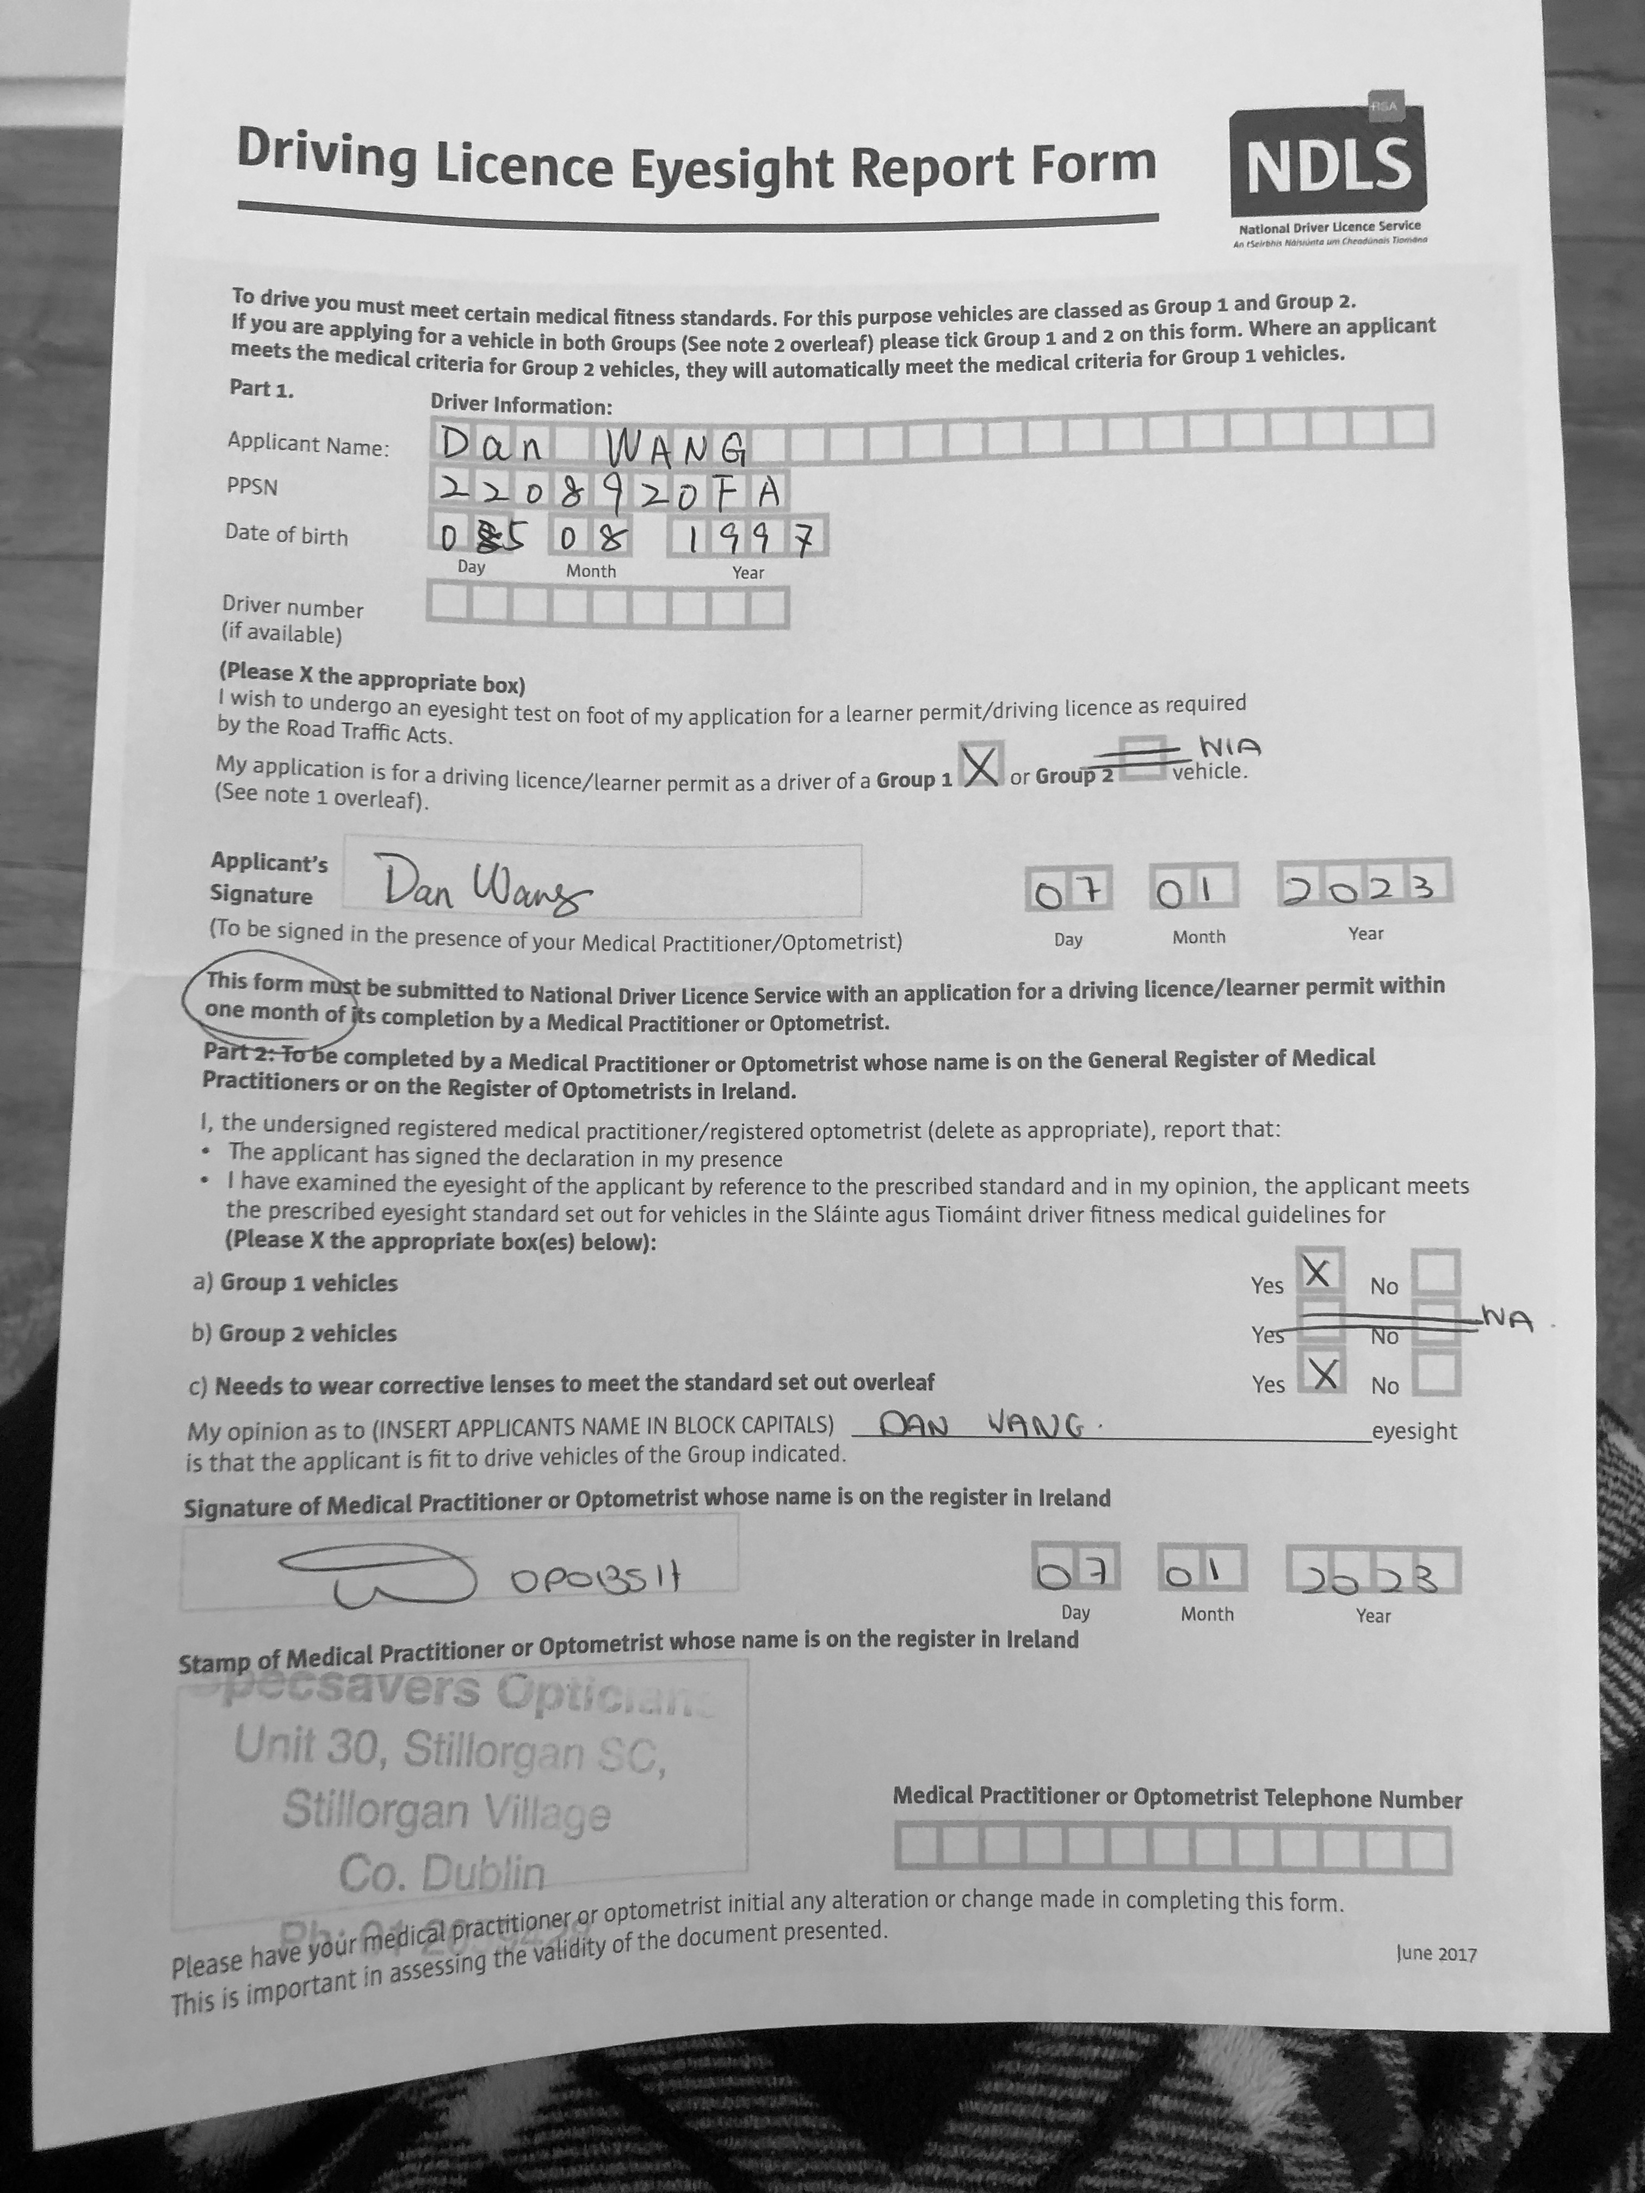
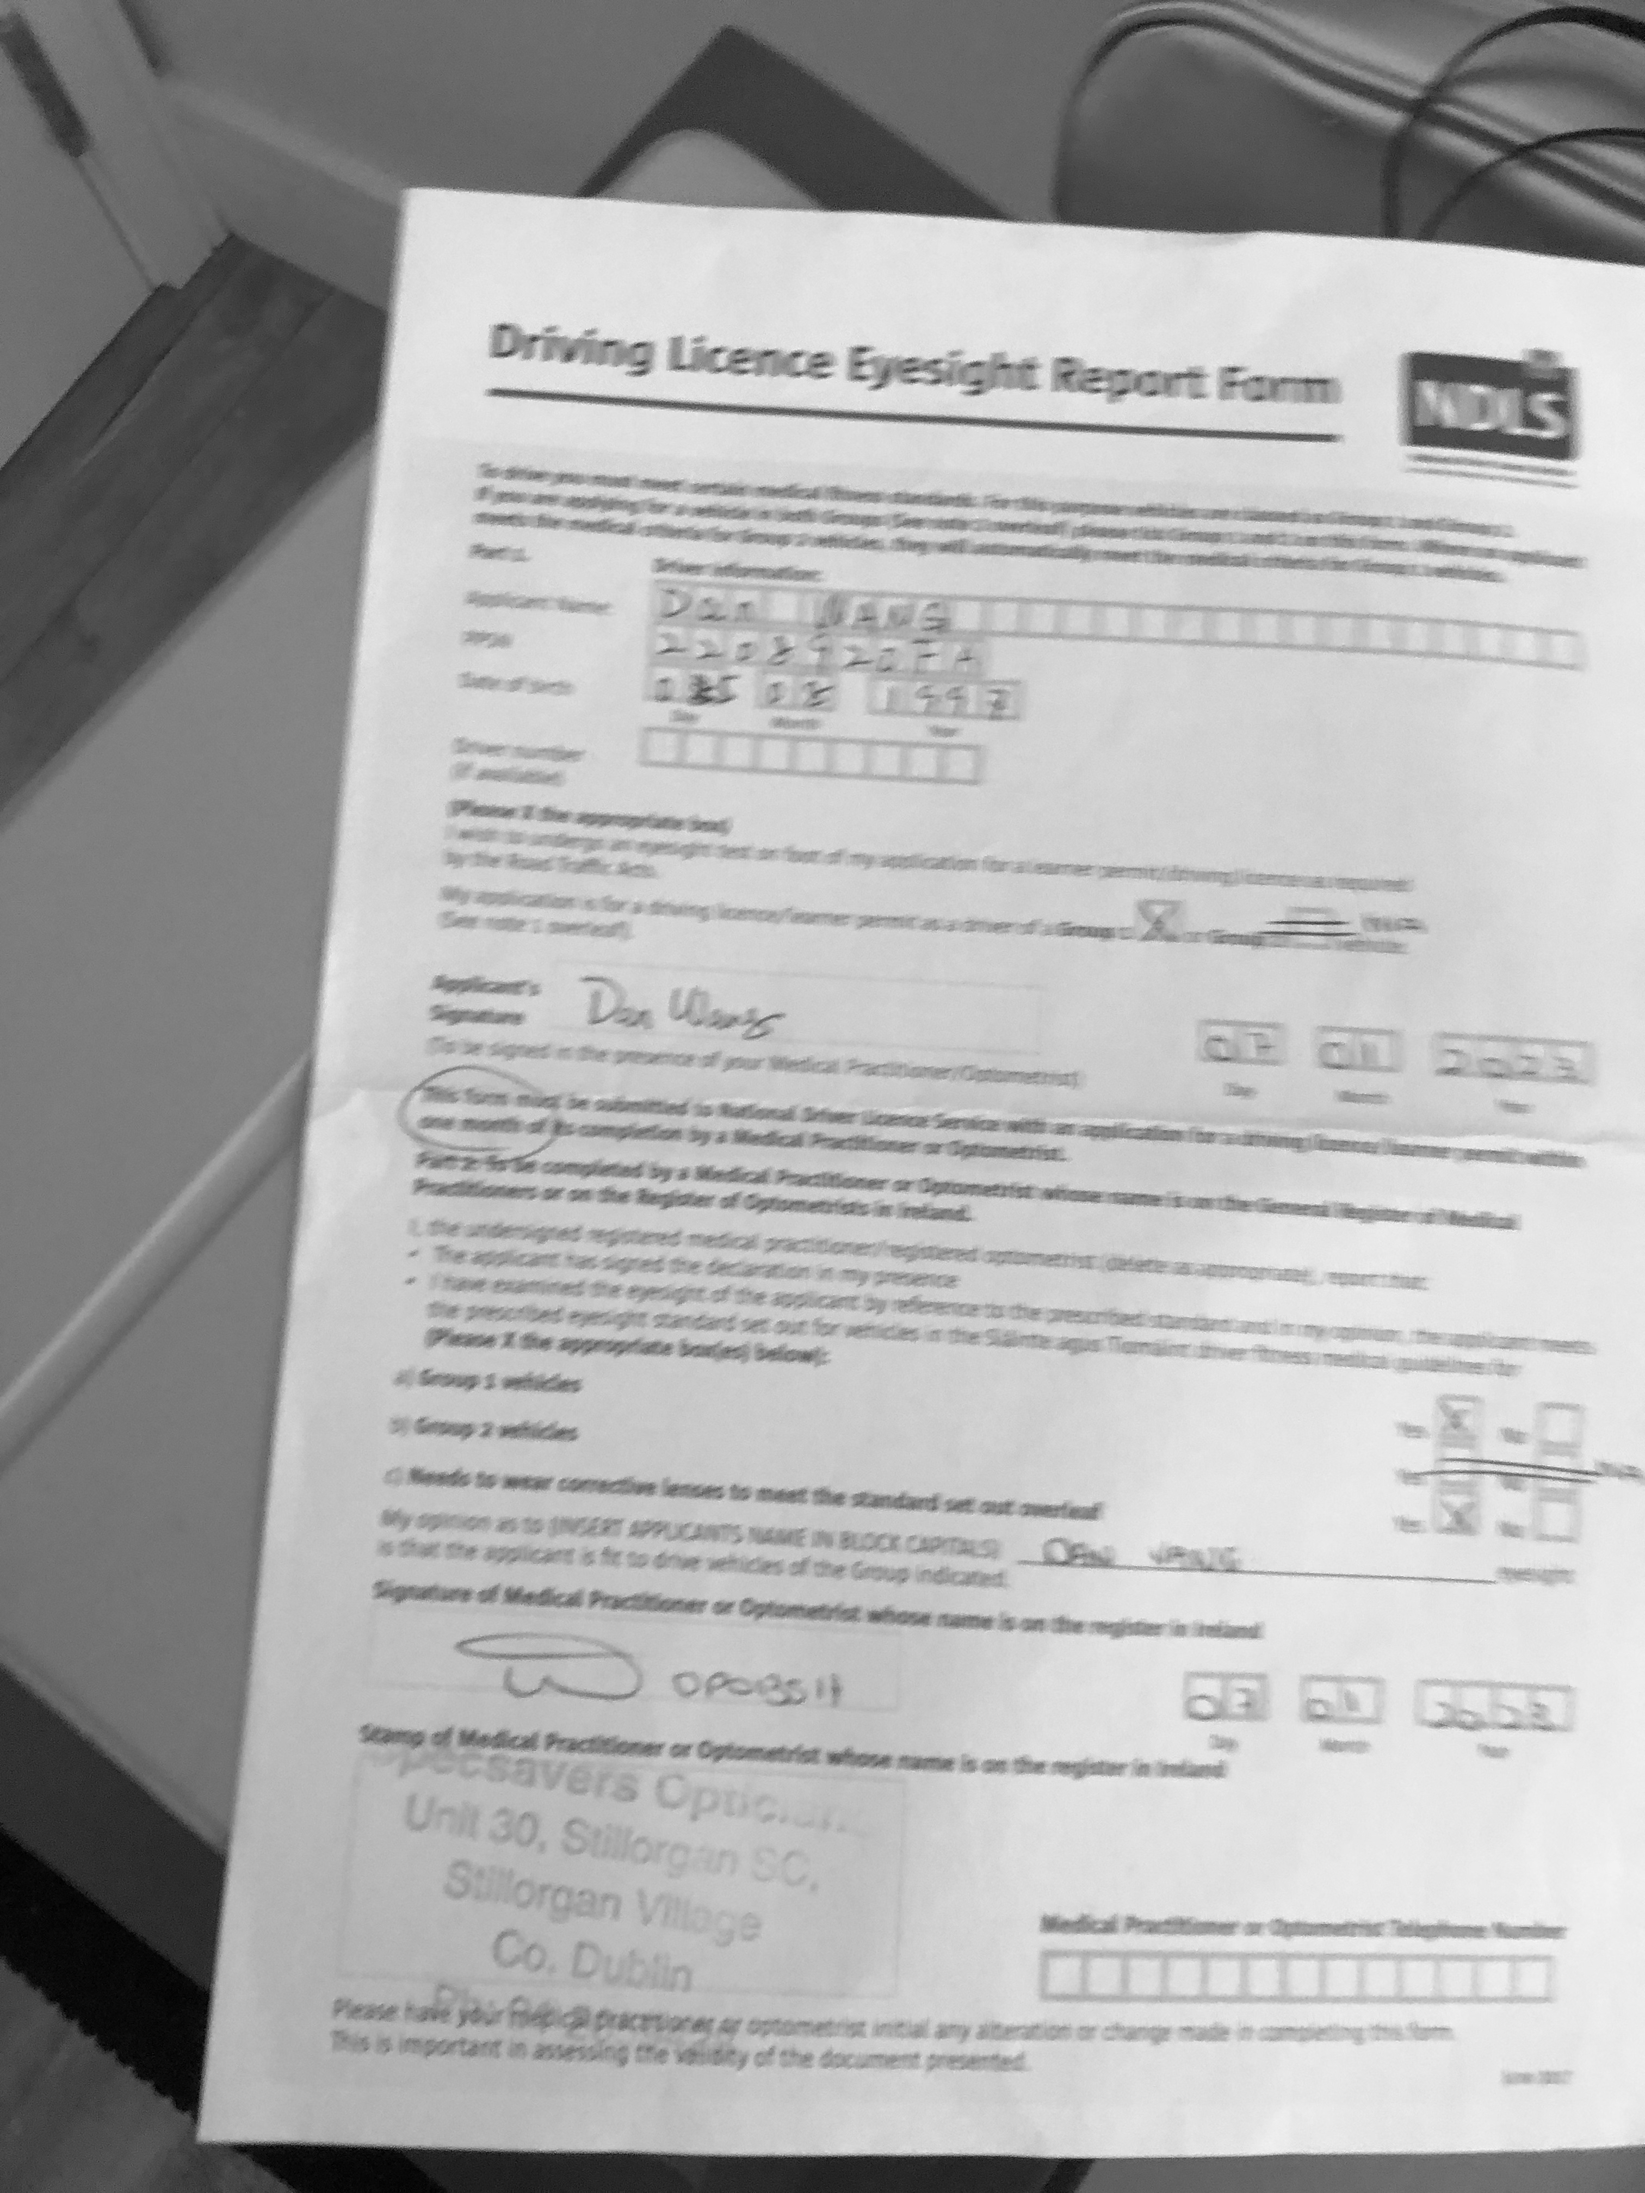
[Add]test image

diff --git a/src/main/java/com/deloitte/todoapplication/controller/Test.java b/src/main/java/com/deloitte/todoapplication/controller/Test.java
@@ -4,6 +4,6 @@ import com.deloitte.todoapplication.util.ImageUtil;
 
 public class Test {
     public static void main(String[] args){
-        ImageUtil.blurryDetect("b8.jpg");
+        ImageUtil.blurryDetect("b9.jpg");
     }
 }
